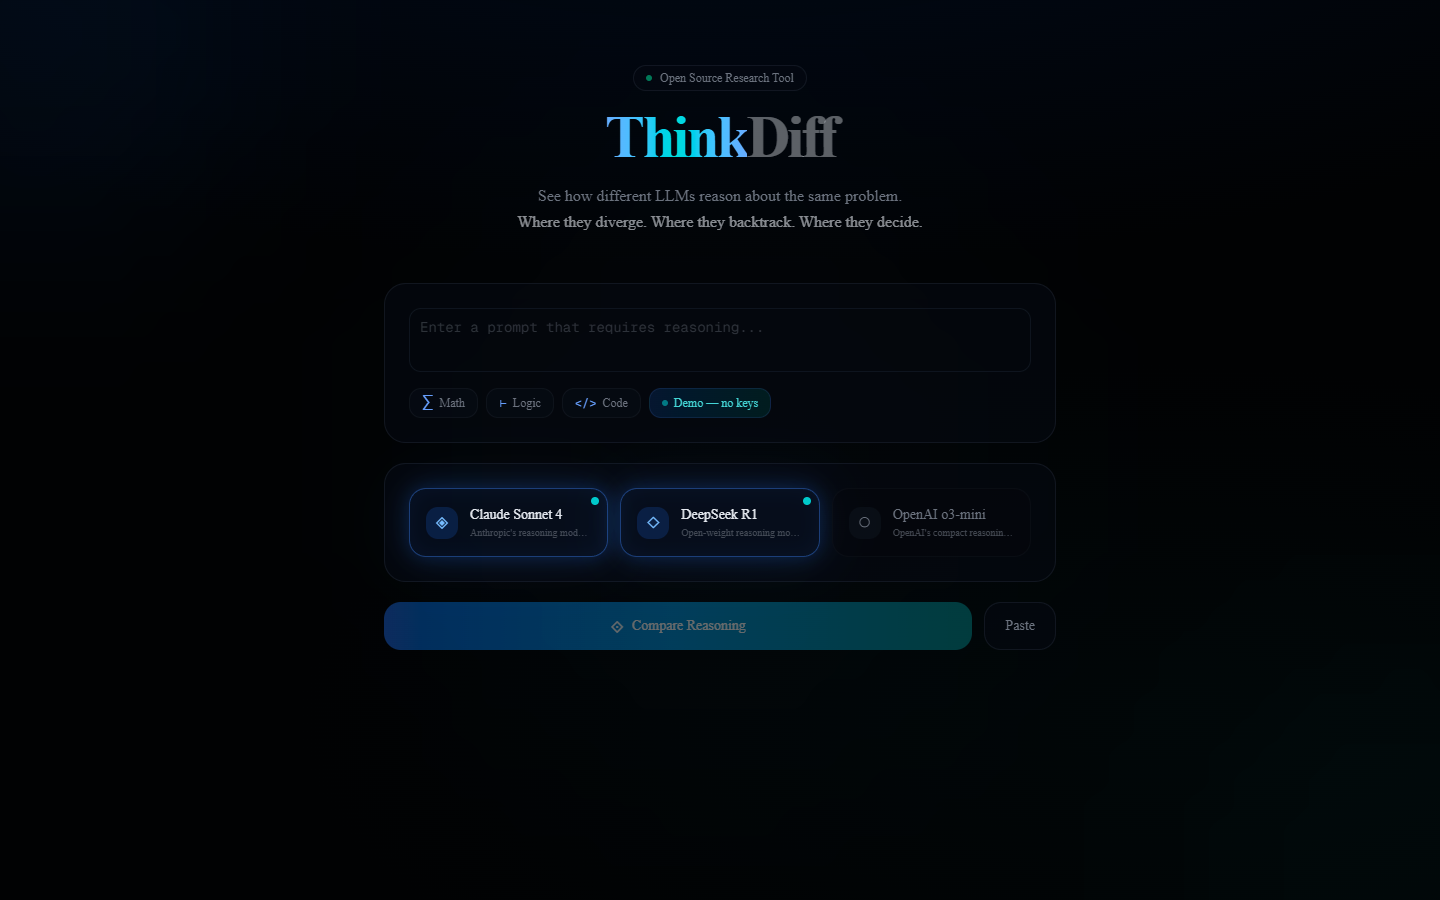
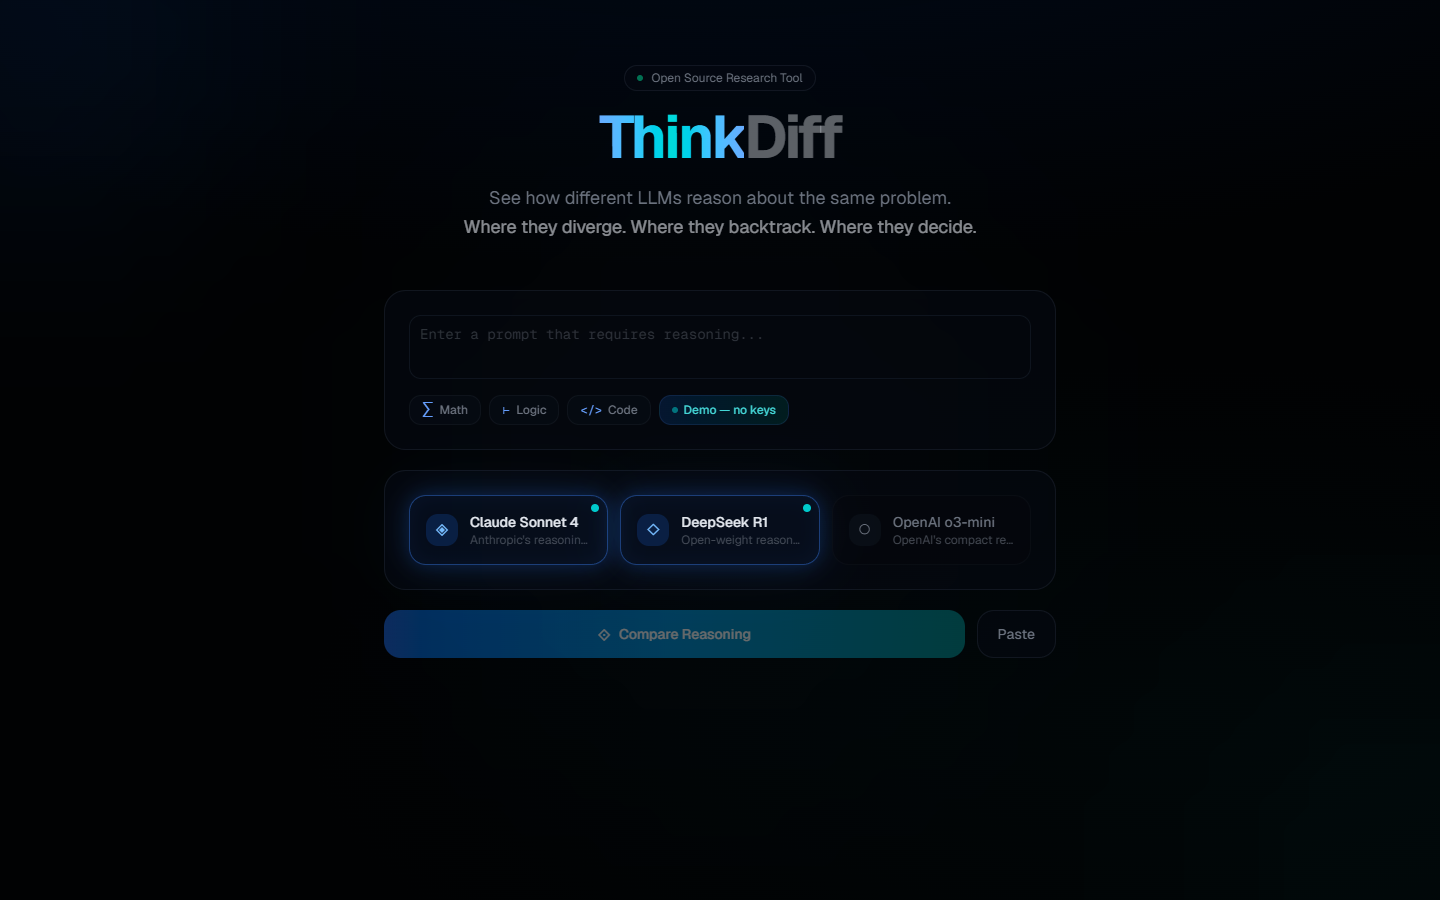
fix(ui): load Geist font and raise minimum text size
- --font-sans referenced itself, so browsers fell back to Times New Roman;
  point it at the Geist variable from layout.tsx
- Replace 10–11px text with 12px, and show reasoning steps at 14px
- Widen the home tagline so it fits on one line
- Refresh README screenshots

diff --git a/components/cross-metrics.tsx b/components/cross-metrics.tsx
@@ -175,7 +175,7 @@ export function CrossMetrics({ traces }: CrossMetricsProps) {
               >
                 {s.style}
               </p>
-              <p className="text-[10px] text-muted-foreground/50">
+              <p className="text-xs text-muted-foreground/50">
                 {s.backtracks} backtrack{s.backtracks !== 1 ? "s" : ""}
               </p>
             </motion.div>
@@ -218,7 +218,7 @@ export function CrossMetrics({ traces }: CrossMetricsProps) {
                     return (
                       <div key={t.model} className="flex items-center gap-2">
                         <span
-                          className="text-[10px] font-mono w-24 truncate"
+                          className="text-xs font-mono w-24 truncate"
                           style={{ color: mColor }}
                         >
                           {t.model}
@@ -238,7 +238,7 @@ export function CrossMetrics({ traces }: CrossMetricsProps) {
                             }}
                           />
                         </div>
-                        <span className="text-[10px] font-mono text-muted-foreground/50 w-10 text-right">
+                        <span className="text-xs font-mono text-muted-foreground/50 w-10 text-right">
                           {pct.toFixed(0)}%
                         </span>
                       </div>
@@ -255,7 +255,7 @@ export function CrossMetrics({ traces }: CrossMetricsProps) {
           {traces.map((t) => {
             const color = modelColor(t.model);
             return (
-              <div key={t.model} className="flex items-center gap-1.5 text-[10px]">
+              <div key={t.model} className="flex items-center gap-1.5 text-xs">
                 <div
                   className="w-2 h-2 rounded-full"
                   style={{ background: color }}
@@ -285,7 +285,7 @@ export function CrossMetrics({ traces }: CrossMetricsProps) {
             return (
               <div key={t.model} className="space-y-1">
                 <span
-                  className="text-[10px] font-mono"
+                  className="text-xs font-mono"
                   style={{ color }}
                 >
                   {t.model}
@@ -313,7 +313,7 @@ export function CrossMetrics({ traces }: CrossMetricsProps) {
                         }}
                       >
                         <div
-                          className="absolute bottom-full left-1/2 -translate-x-1/2 mb-2 px-2 py-1 rounded-md text-[10px] whitespace-nowrap opacity-0 group-hover:opacity-100 transition-opacity pointer-events-none z-10"
+                          className="absolute bottom-full left-1/2 -translate-x-1/2 mb-2 px-2 py-1 rounded-md text-xs whitespace-nowrap opacity-0 group-hover:opacity-100 transition-opacity pointer-events-none z-10"
                           style={{
                             background: `${phaseColor}20`,
                             border: `1px solid ${phaseColor}40`,
@@ -334,7 +334,7 @@ export function CrossMetrics({ traces }: CrossMetricsProps) {
         {/* Phase legend */}
         <div className="flex flex-wrap justify-center gap-x-4 gap-y-1 mt-4 pt-3 border-t border-[oklch(0.2_0.02_260_/_30%)]">
           {data.allPhaseTypes.map((type) => (
-            <span key={type} className="flex items-center gap-1 text-[10px]">
+            <span key={type} className="flex items-center gap-1 text-xs">
               <span
                 className="w-2 h-2 rounded-sm"
                 style={{ background: PHASE_COLORS[type] }}
@@ -384,7 +384,7 @@ function CompareBar({
           return (
             <div key={t.model} className="flex items-center gap-2">
               <span
-                className="text-[10px] font-mono w-24 truncate"
+                className="text-xs font-mono w-24 truncate"
                 style={{ color: modelColor(t.model) }}
               >
                 {t.model}
@@ -402,7 +402,7 @@ function CompareBar({
                 />
               </div>
               <span
-                className="text-[10px] font-mono min-w-[50px] text-right"
+                className="text-xs font-mono min-w-[50px] text-right"
                 style={{ color: isMax ? color : "oklch(0.5 0 0)" }}
               >
                 {formatValue(value)}

diff --git a/components/aligned-comparison.tsx b/components/aligned-comparison.tsx
@@ -52,7 +52,7 @@ export function AlignedComparison({ traces }: AlignedComparisonProps) {
             <span className="text-sm font-mono font-semibold text-foreground/80">
               {t.model}
             </span>
-            <p className="text-[10px] text-muted-foreground/50 font-mono">
+            <p className="text-xs text-muted-foreground/50 font-mono">
               {t.totalTokens.toLocaleString()} tok · {(t.totalTimeMs / 1000).toFixed(1)}s
             </p>
           </div>
@@ -80,7 +80,7 @@ export function AlignedComparison({ traces }: AlignedComparisonProps) {
                 {/* Phase label */}
                 <div className="flex items-start pt-3">
                   <span
-                    className="text-[10px] font-semibold uppercase tracking-wider px-2 py-1 rounded-md"
+                    className="text-xs font-semibold uppercase tracking-wider px-2 py-1 rounded-md"
                     style={{
                       color,
                       background: `${color}10`,
@@ -113,18 +113,18 @@ export function AlignedComparison({ traces }: AlignedComparisonProps) {
                     }
                   >
                     {phase === null ? (
-                      <span className="text-muted-foreground/20 italic text-[10px] flex items-center justify-center h-full">
+                      <span className="text-muted-foreground/20 italic text-xs flex items-center justify-center h-full">
                         —
                       </span>
                     ) : (
                       <div className="space-y-1.5">
-                        <div className="font-mono text-[10px]" style={{ color: `${color}80` }}>
+                        <div className="font-mono text-xs" style={{ color: `${color}80` }}>
                           {phase.tokenCount} tok · {phase.steps.length} steps
                         </div>
                         {phase.steps.slice(0, 3).map((step) => (
                           <div
                             key={step.id}
-                            className="text-[11px] leading-relaxed line-clamp-2 text-foreground/50"
+                            className="text-sm leading-relaxed line-clamp-2 text-foreground/60"
                           >
                             <span className="font-mono mr-1" style={{ color: `${color}60` }}>
                               {step.type === "backtrack"
@@ -139,7 +139,7 @@ export function AlignedComparison({ traces }: AlignedComparisonProps) {
                           </div>
                         ))}
                         {phase.steps.length > 3 && (
-                          <div className="text-[10px] text-muted-foreground/30 italic">
+                          <div className="text-xs text-muted-foreground/30 italic">
                             +{phase.steps.length - 3} more
                           </div>
                         )}
@@ -165,7 +165,7 @@ function DivergenceMeter({ score }: { score: number }) {
 
   return (
     <div className="glass rounded-xl px-5 py-3 flex items-center gap-4">
-      <span className="text-[10px] uppercase tracking-widest text-muted-foreground/50">
+      <span className="text-xs uppercase tracking-widest text-muted-foreground/50">
         Divergence
       </span>
       <div className="w-32 h-2 rounded-full bg-[oklch(0.12_0.01_260)] overflow-hidden">
@@ -183,7 +183,7 @@ function DivergenceMeter({ score }: { score: number }) {
       <span className="text-xs font-semibold" style={{ color }}>
         {level}
       </span>
-      <span className="text-[10px] font-mono text-muted-foreground/40">
+      <span className="text-xs font-mono text-muted-foreground/40">
         {score}
       </span>
     </div>

diff --git a/components/comparison-view.tsx b/components/comparison-view.tsx
@@ -56,7 +56,7 @@ export function ComparisonView() {
         animate={{ opacity: 1 }}
         className="text-center"
       >
-        <p className="text-[10px] uppercase tracking-widest text-muted-foreground/50 mb-2">
+        <p className="text-xs uppercase tracking-widest text-muted-foreground/50 mb-2">
           Prompt
         </p>
         <p className="text-sm text-foreground/70 max-w-2xl mx-auto font-mono glass rounded-xl px-5 py-3 inline-block">
@@ -122,7 +122,7 @@ function RawComparisonView() {
         animate={{ opacity: 1 }}
         className="text-center"
       >
-        <p className="text-[10px] uppercase tracking-widest text-muted-foreground/50 mb-2">
+        <p className="text-xs uppercase tracking-widest text-muted-foreground/50 mb-2">
           Prompt
         </p>
         <p className="text-sm text-foreground/70 max-w-2xl mx-auto font-mono glass rounded-xl px-5 py-3 inline-block">
@@ -158,13 +158,13 @@ function RawComparisonView() {
                 <div className="flex gap-2">
                   <Badge
                     variant="outline"
-                    className="text-[10px] font-mono border-[oklch(0.3_0.05_260_/_40%)] text-muted-foreground"
+                    className="text-xs font-mono border-[oklch(0.3_0.05_260_/_40%)] text-muted-foreground"
                   >
                     {result.totalTokens.toLocaleString()} tok
                   </Badge>
                   <Badge
                     variant="outline"
-                    className="text-[10px] font-mono border-[oklch(0.3_0.05_195_/_40%)] text-[oklch(0.7_0.1_195)]"
+                    className="text-xs font-mono border-[oklch(0.3_0.05_195_/_40%)] text-[oklch(0.7_0.1_195)]"
                   >
                     {(result.totalTimeMs / 1000).toFixed(1)}s
                   </Badge>
@@ -179,7 +179,7 @@ function RawComparisonView() {
               ) : (
                 <div className="space-y-4">
                   <div>
-                    <p className="text-[10px] uppercase tracking-widest text-muted-foreground/50 mb-2">
+                    <p className="text-xs uppercase tracking-widest text-muted-foreground/50 mb-2">
                       Reasoning Trace
                     </p>
                     <ScrollArea className="h-[400px]">
@@ -190,7 +190,7 @@ function RawComparisonView() {
                   </div>
                   {result.answer && (
                     <div className="border-t border-[oklch(0.2_0.02_260_/_30%)] pt-3">
-                      <p className="text-[10px] uppercase tracking-widest text-emerald-400/60 mb-1">
+                      <p className="text-xs uppercase tracking-widest text-emerald-400/60 mb-1">
                         Answer
                       </p>
                       <p className="text-sm text-foreground/70">

diff --git a/components/trace-panel.tsx b/components/trace-panel.tsx
@@ -70,13 +70,13 @@ export function TracePanel({ trace, index = 0 }: TracePanelProps) {
           <div className="flex gap-2">
             <Badge
               variant="outline"
-              className="text-[10px] font-mono border-[oklch(0.3_0.05_260_/_40%)] text-muted-foreground"
+              className="text-xs font-mono border-[oklch(0.3_0.05_260_/_40%)] text-muted-foreground"
             >
               {trace.totalTokens.toLocaleString()} tok
             </Badge>
             <Badge
               variant="outline"
-              className="text-[10px] font-mono border-[oklch(0.3_0.05_195_/_40%)] text-[oklch(0.7_0.1_195)]"
+              className="text-xs font-mono border-[oklch(0.3_0.05_195_/_40%)] text-[oklch(0.7_0.1_195)]"
             >
               {(trace.totalTimeMs / 1000).toFixed(1)}s
             </Badge>
@@ -99,7 +99,7 @@ export function TracePanel({ trace, index = 0 }: TracePanelProps) {
           <button
             key={tab.id}
             onClick={() => setActiveTab(tab.id)}
-            className={`flex-1 px-3 py-2.5 text-[11px] font-medium transition-all relative ${
+            className={`flex-1 px-3 py-2.5 text-xs font-medium transition-all relative ${
               activeTab === tab.id
                 ? "text-foreground"
                 : "text-muted-foreground/60 hover:text-muted-foreground"
@@ -151,7 +151,7 @@ export function TracePanel({ trace, index = 0 }: TracePanelProps) {
       {trace.answer && (
         <div className="px-5 py-3 border-t border-[oklch(0.2_0.02_260_/_30%)] bg-[oklch(0.1_0.02_155_/_20%)]">
           <div className="flex items-center gap-1.5 mb-1">
-            <span className="text-emerald-400 text-[10px] font-semibold tracking-wider uppercase">
+            <span className="text-emerald-400 text-xs font-semibold tracking-wider uppercase">
               ✓ Answer
             </span>
           </div>
@@ -183,7 +183,7 @@ function PhaseBlock({ phase }: { phase: Phase }) {
         <span className="text-xs font-semibold capitalize" style={{ color }}>
           {phase.label}
         </span>
-        <span className="text-[10px] font-mono text-muted-foreground/50">
+        <span className="text-xs font-mono text-muted-foreground/50">
           {phase.tokenCount} tok
         </span>
       </div>
@@ -209,7 +209,7 @@ function PhaseBlock({ phase }: { phase: Phase }) {
               >
                 {icon.icon}
               </span>
-              <span className="text-foreground/70 text-xs leading-relaxed">
+              <span className="text-foreground/70 text-sm leading-relaxed">
                 {step.content}
               </span>
             </div>

diff --git a/components/metrics-dashboard.tsx b/components/metrics-dashboard.tsx
@@ -123,7 +123,7 @@ export function MetricsDashboard({ trace }: MetricsDashboardProps) {
           </div>
           <div className="flex flex-wrap justify-center gap-x-4 gap-y-1 mt-4">
             {Object.entries(phaseDistribution).map(([type, tokens]) => (
-              <span key={type} className="flex items-center gap-1.5 text-[10px]">
+              <span key={type} className="flex items-center gap-1.5 text-xs">
                 <span
                   className="w-2 h-2 rounded-sm"
                   style={{ background: PHASE_COLORS[type as PhaseType] }}
@@ -224,7 +224,7 @@ export function MetricsDashboard({ trace }: MetricsDashboardProps) {
                 }}
               >
                 {/* Tooltip */}
-                <div className="absolute bottom-full left-1/2 -translate-x-1/2 mb-2 px-2 py-1 rounded-md text-[10px] whitespace-nowrap opacity-0 group-hover:opacity-100 transition-opacity pointer-events-none"
+                <div className="absolute bottom-full left-1/2 -translate-x-1/2 mb-2 px-2 py-1 rounded-md text-xs whitespace-nowrap opacity-0 group-hover:opacity-100 transition-opacity pointer-events-none"
                   style={{ background: `${color}20`, border: `1px solid ${color}40`, color }}
                 >
                   {phase.label} · {phase.tokenCount} tok
@@ -280,7 +280,7 @@ function MetricCard({
         boxShadow: `0 0 20px ${color}08, inset 0 0 20px ${color}03`,
       }}
     >
-      <p className="text-[10px] text-muted-foreground uppercase tracking-wider mb-1">
+      <p className="text-xs text-muted-foreground uppercase tracking-wider mb-1">
         {label}
       </p>
       <p className="text-2xl font-bold font-mono" style={{ color }}>
@@ -402,7 +402,7 @@ function RadialChart({
         y={size / 2 + 14}
         textAnchor="middle"
         dominantBaseline="middle"
-        className="fill-muted-foreground text-[10px] uppercase tracking-wider"
+        className="fill-muted-foreground text-xs uppercase tracking-wider"
         transform={`rotate(90, ${size / 2}, ${size / 2})`}
       >
         phases

diff --git a/components/synced-replay.tsx b/components/synced-replay.tsx
@@ -186,7 +186,7 @@ export function SyncedReplay({ traces }: SyncedReplayProps) {
             <button
               key={s}
               onClick={() => setSpeed(s)}
-              className={`px-2 py-1 rounded text-[10px] font-mono transition-all ${
+              className={`px-2 py-1 rounded text-xs font-mono transition-all ${
                 speed === s
                   ? "bg-[oklch(0.3_0.08_260)] text-indigo-300"
                   : "text-muted-foreground hover:text-foreground"
@@ -251,7 +251,7 @@ export function SyncedReplay({ traces }: SyncedReplayProps) {
                 >
                   {t.model}
                 </span>
-                <span className="text-[10px] font-mono text-muted-foreground/40">
+                <span className="text-xs font-mono text-muted-foreground/40">
                   {visibleCounts[ti]} steps
                 </span>
               </div>
@@ -280,7 +280,7 @@ export function SyncedReplay({ traces }: SyncedReplayProps) {
                               style={{ background: phaseColor }}
                             />
                             <span
-                              className="text-[10px] font-semibold uppercase tracking-wider"
+                              className="text-xs font-semibold uppercase tracking-wider"
                               style={{ color: phaseColor }}
                             >
                               {step.phaseLabel}
@@ -320,7 +320,7 @@ export function SyncedReplay({ traces }: SyncedReplayProps) {
                             {icon}
                           </span>
                           <span
-                            className="text-[11px] leading-relaxed"
+                            className="text-sm leading-relaxed"
                             style={{
                               color: isCurrent
                                 ? "rgba(230,230,250,0.85)"

diff --git a/components/comparison-summary.tsx b/components/comparison-summary.tsx
@@ -119,14 +119,14 @@ export function ComparisonSummary({ traces }: ComparisonSummaryProps) {
           >
             <div className="flex items-center gap-2">
               <span className="text-lg">{card.icon}</span>
-              <span className="text-[10px] uppercase tracking-widest text-muted-foreground/60 font-medium">
+              <span className="text-xs uppercase tracking-widest text-muted-foreground/60 font-medium">
                 {card.label}
               </span>
             </div>
             <p className="text-sm font-mono font-semibold" style={{ color: card.color }}>
               {card.value}
             </p>
-            <p className="text-[10px] text-muted-foreground/50">{card.detail}</p>
+            <p className="text-xs text-muted-foreground/50">{card.detail}</p>
           </motion.div>
         ))}
       </div>

diff --git a/components/trace-tree.tsx b/components/trace-tree.tsx
@@ -152,7 +152,7 @@ function PhaseNode({
         </div>
 
         {/* Metrics bar */}
-        <div className="flex items-center gap-3 text-[10px] font-mono" style={{ color: `${theme.text}80` }}>
+        <div className="flex items-center gap-3 text-xs font-mono" style={{ color: `${theme.text}80` }}>
           <span>{data.tokenCount} tok</span>
           <span className="opacity-30">|</span>
           <span>{data.stepCount} steps</span>
@@ -205,7 +205,7 @@ function StepNode({
           >
             {step.icon}
           </span>
-          <span className="text-[11px] leading-relaxed text-gray-300 line-clamp-3">
+          <span className="text-xs leading-relaxed text-gray-300 line-clamp-3">
             {data.content}
           </span>
         </div>

diff --git a/app/page.tsx b/app/page.tsx
@@ -15,7 +15,7 @@ export default function Home() {
           </span>
           <span className="text-foreground/40">Diff</span>
         </h1>
-        <p className="text-muted-foreground max-w-md mx-auto text-base leading-relaxed">
+        <p className="text-muted-foreground max-w-xl mx-auto text-base sm:text-lg leading-relaxed">
           See how different LLMs reason about the same problem.
           <br />
           <span className="text-foreground/60">Where they diverge. Where they backtrack. Where they decide.</span>

diff --git a/components/answer-diff.tsx b/components/answer-diff.tsx
@@ -270,7 +270,7 @@ export function AnswerDiff({ traces }: AnswerDiffProps) {
                 </div>
 
                 {/* Legend */}
-                <div className="flex items-center gap-4 text-[10px] pt-2 border-t border-[oklch(0.2_0.02_260_/_30%)]">
+                <div className="flex items-center gap-4 text-xs pt-2 border-t border-[oklch(0.2_0.02_260_/_30%)]">
                   <span className="flex items-center gap-1">
                     <span
                       className="w-3 h-2 rounded-sm"

diff --git a/components/reasoning-replay.tsx b/components/reasoning-replay.tsx
@@ -158,7 +158,7 @@ export function ReasoningReplay({ trace }: ReasoningReplayProps) {
             <button
               key={s}
               onClick={() => setSpeed(s)}
-              className={`px-2 py-1 rounded text-[10px] font-mono transition-all ${
+              className={`px-2 py-1 rounded text-xs font-mono transition-all ${
                 speed === s
                   ? "bg-[oklch(0.3_0.08_260)] text-indigo-300"
                   : "text-muted-foreground hover:text-foreground"

diff --git a/components/prompt-input.tsx b/components/prompt-input.tsx
@@ -182,7 +182,7 @@ export function PromptInput() {
                   >
                     {model.name}
                   </p>
-                  <p className="text-[10px] text-muted-foreground/60 truncate">
+                  <p className="text-xs text-muted-foreground/60 truncate">
                     {model.description}
                   </p>
                 </div>
